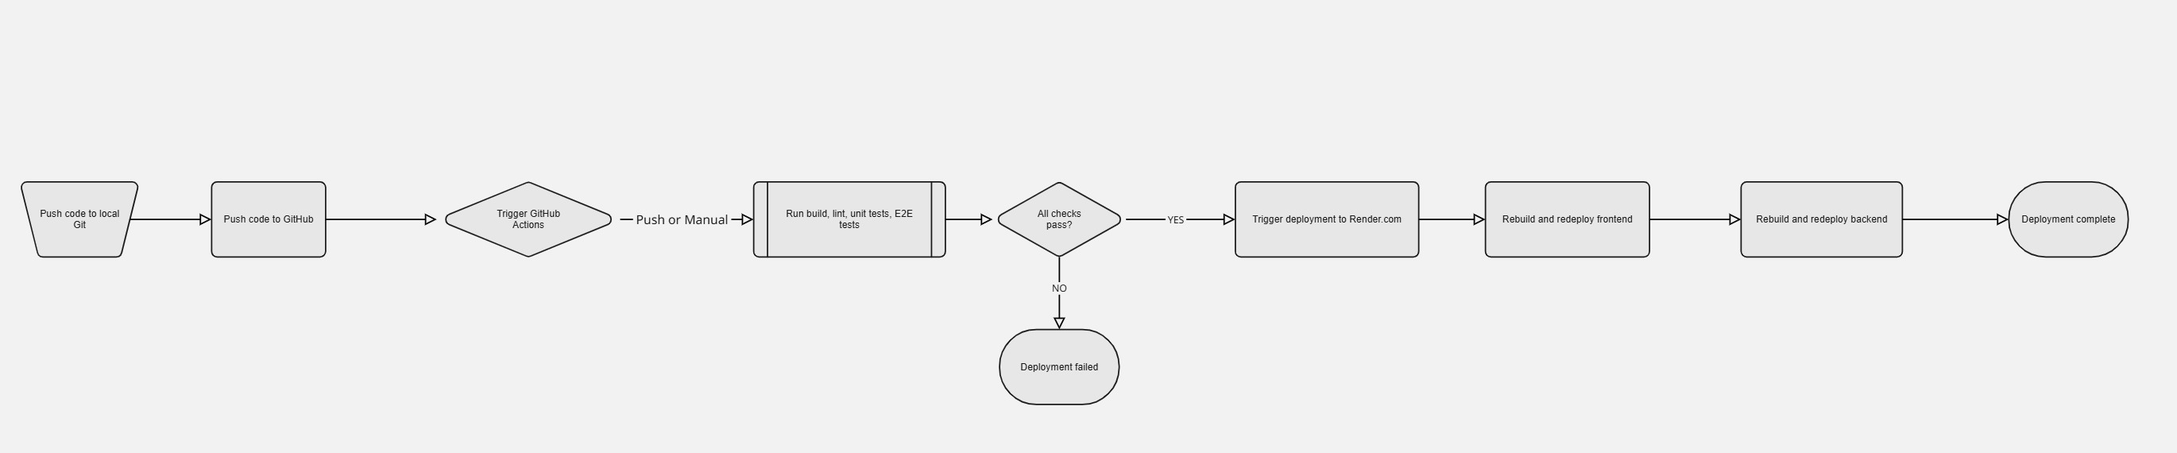
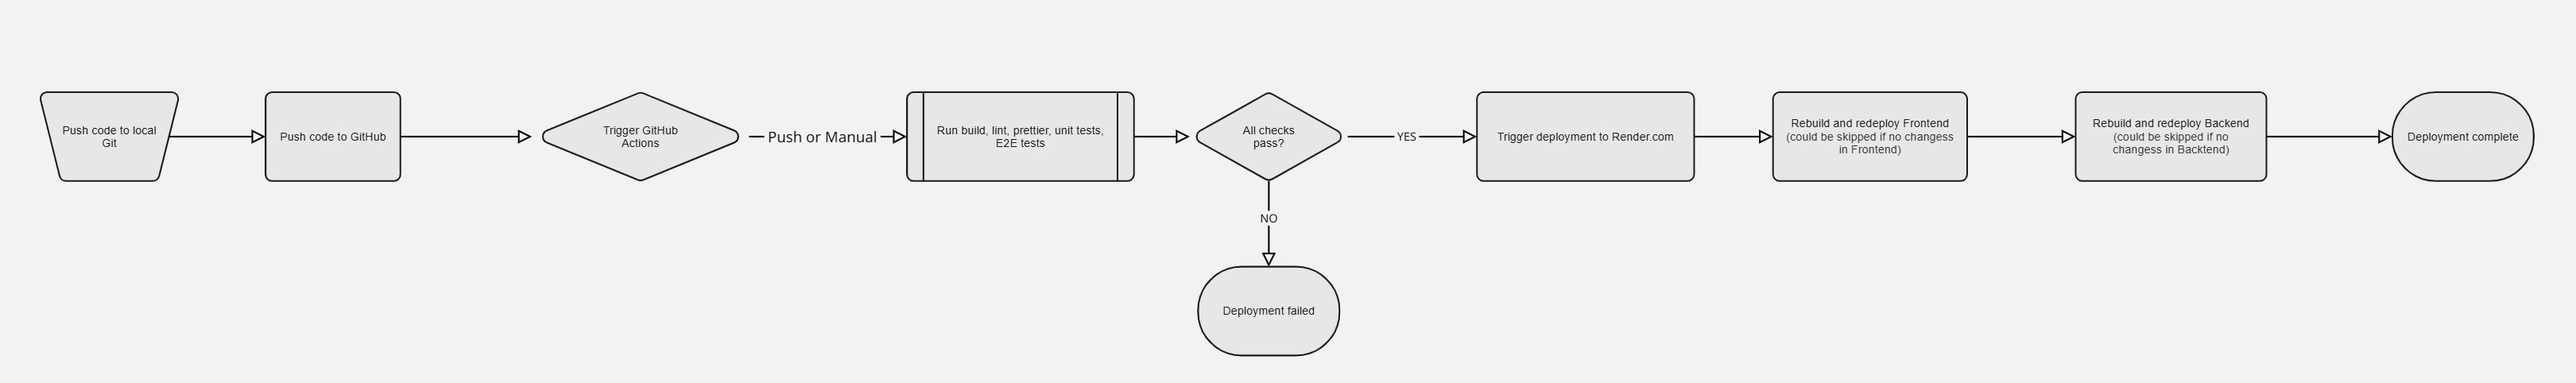
updated CI/CD image (skipping FE/BE deployments) minor readme.md updates (link to pdf) updated status in notes.txt

diff --git a/README.md b/README.md
@@ -16,6 +16,7 @@ A full-stack, sessionless web application for optimal stock trading analysis, de
 - **Architecture Diagram (Miro):** [https://miro.com/app/board/uXjVIgV7WOM=/](https://miro.com/app/board/uXjVIgV7WOM=/)
 - **CI/CD Workflow (Miro):** [https://miro.com/app/board/uXjVIgVY4fU=/](https://miro.com/app/board/uXjVIgVY4fU=/)
 - **GitHub Repository:** [https://github.com/luboivanov/stock-trading-app](https://github.com/luboivanov/stock-trading-app)
+- **Requirements PDF:** [requirements/Full stack developer - Task (English).pdf](requirements/Full%20stack%20developer%20-%20Task%20(English).pdf)
 
 ---
 
